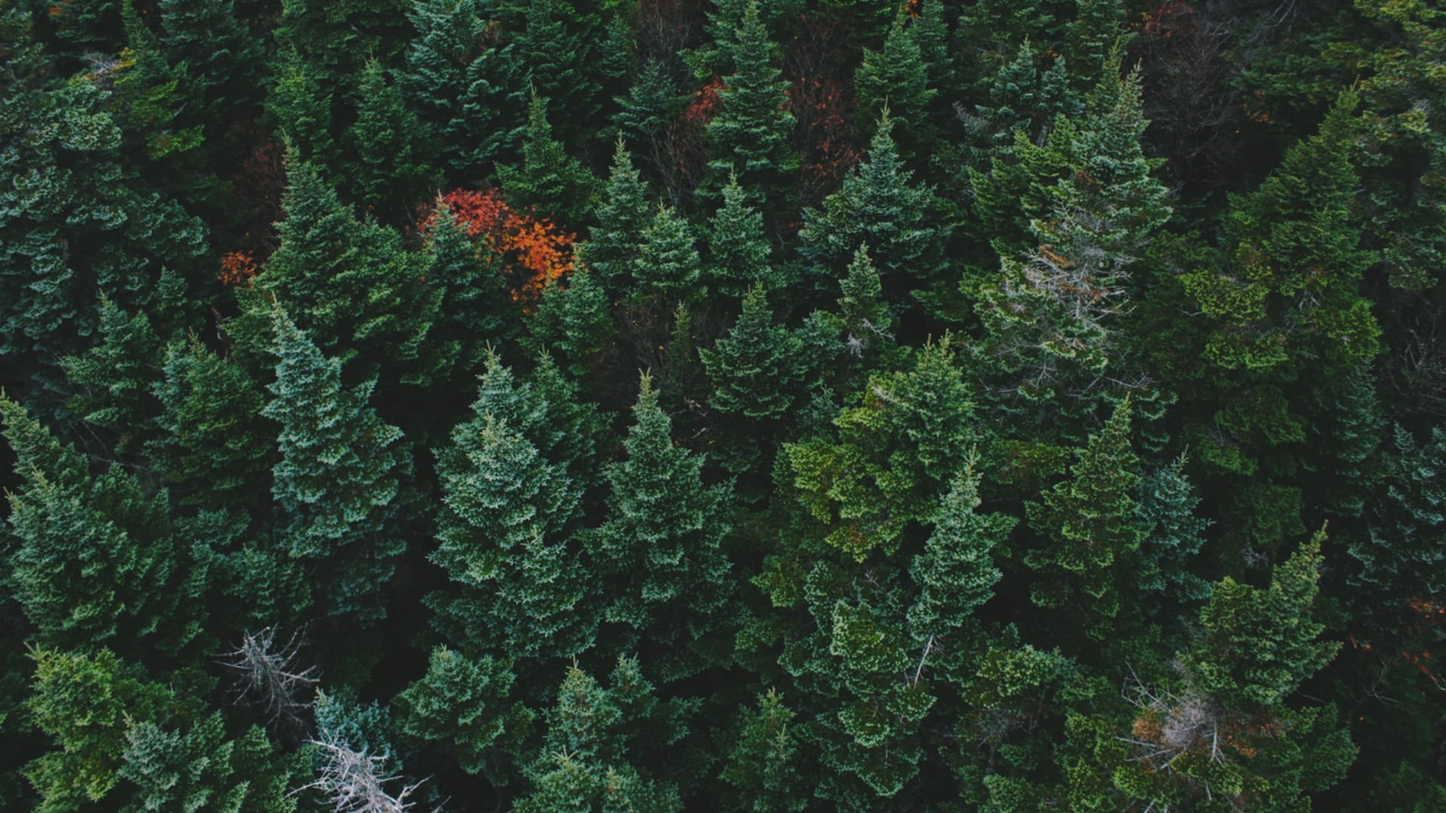
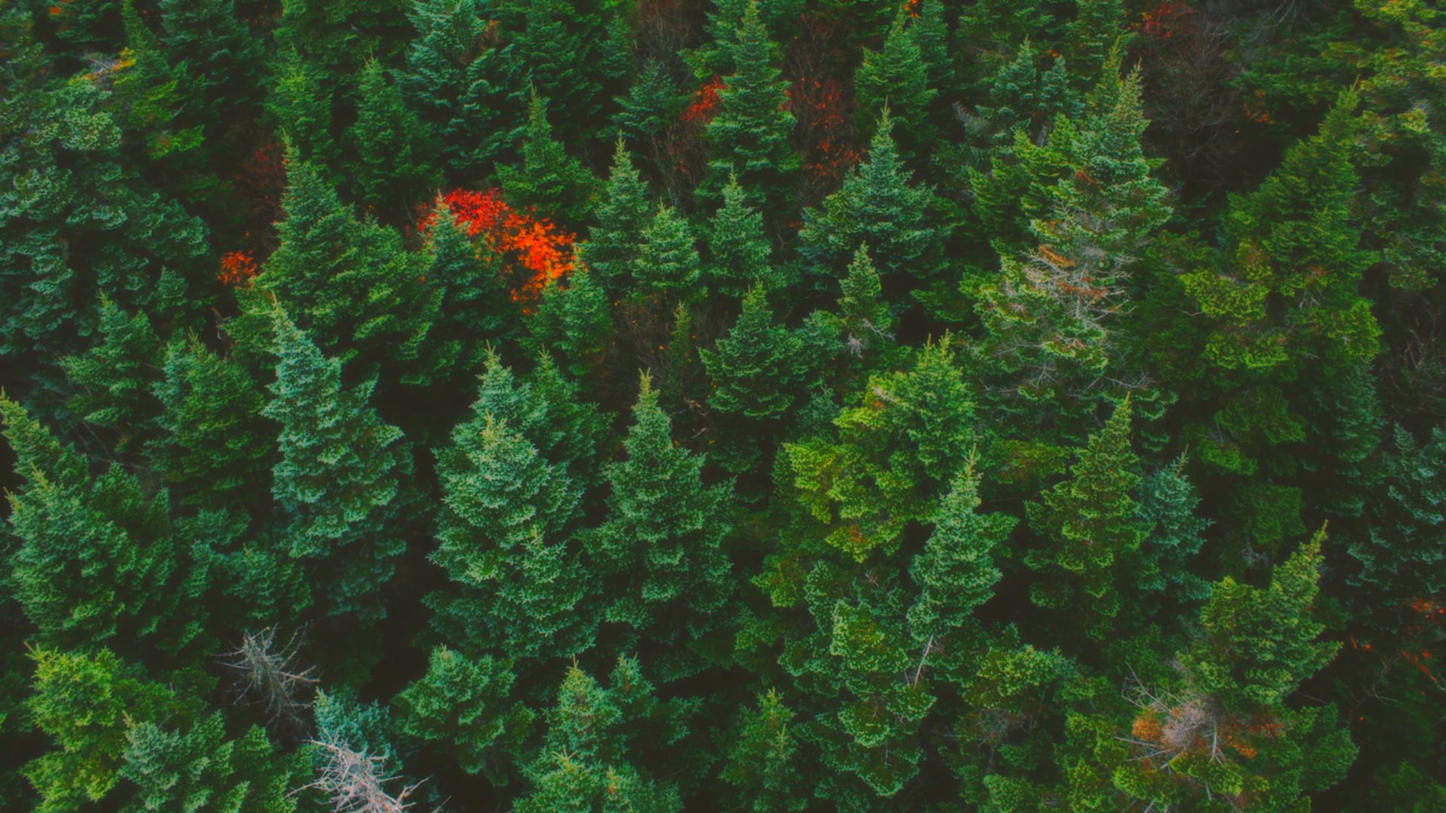
вот так

diff --git a/vlknn/static/vlknn/css/style.css b/vlknn/static/vlknn/css/style.css
@@ -85,7 +85,7 @@ a {
     background-image: url(../images/header-background.jpg);
     background-repeat: no-repeat;
     background-size: cover;
-    filter: brightness(0.4);
+    filter: saturate(100%);
 }
 
 .header__top {
